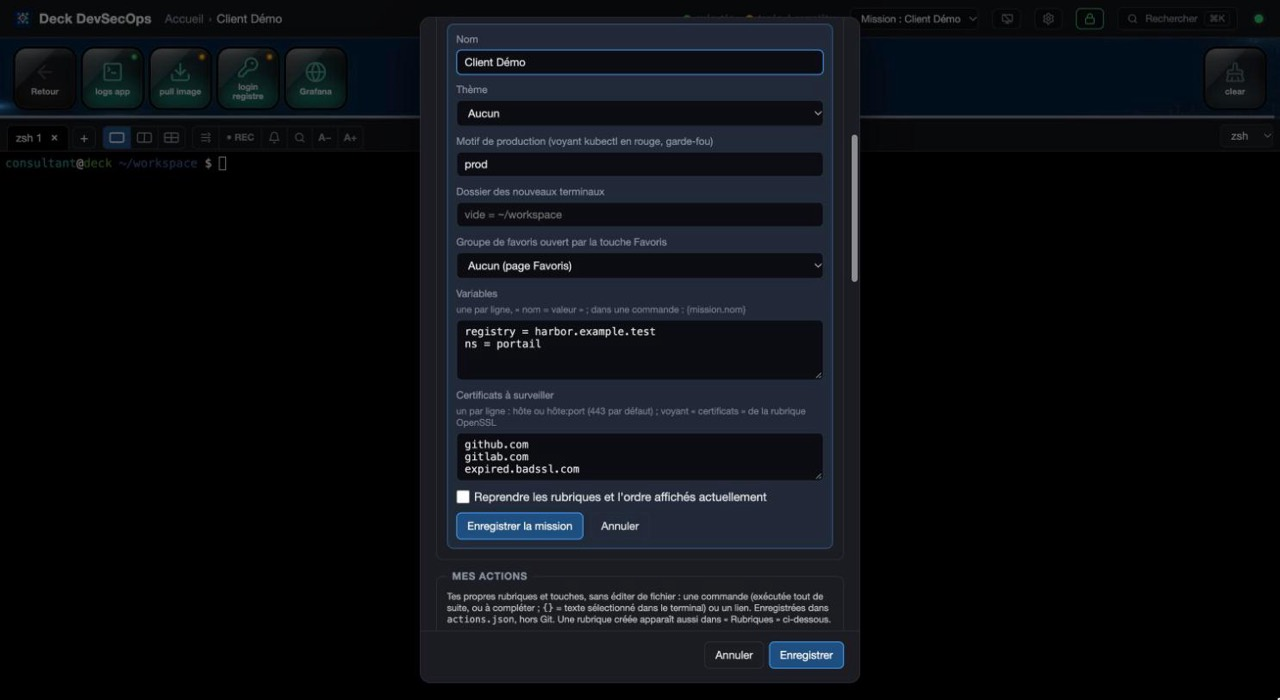
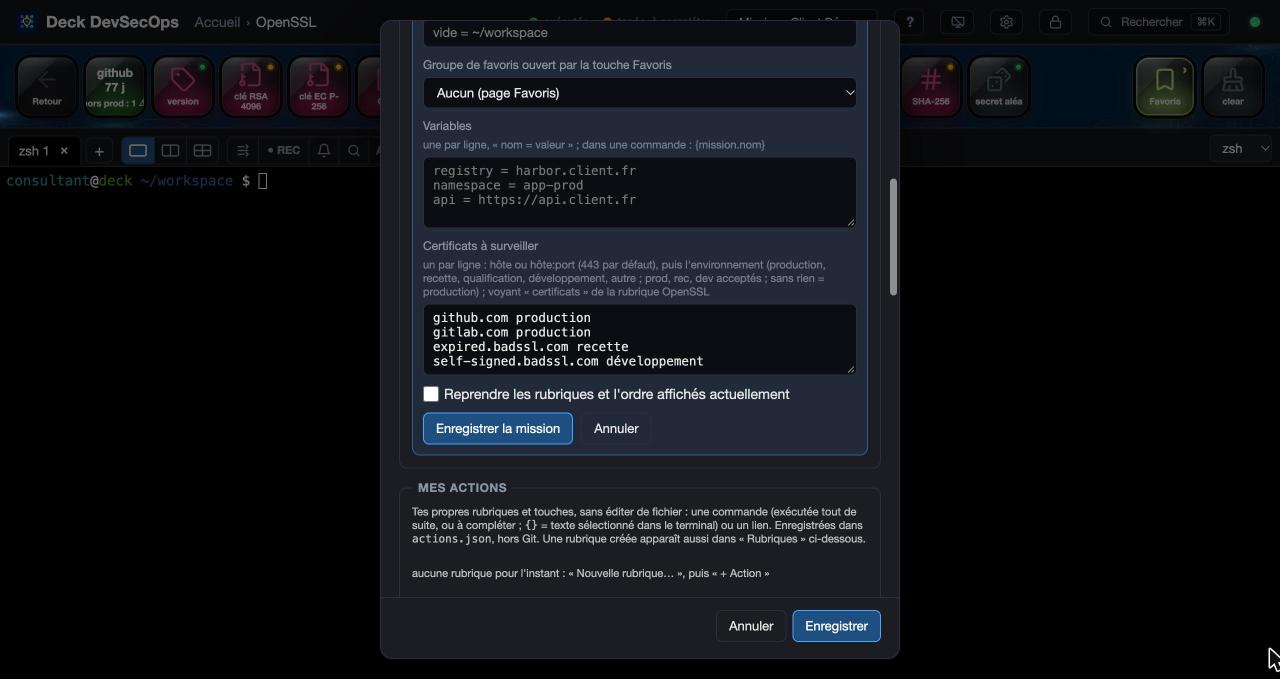
Certificats par environnement : production et hors production séparées
- Environnement par certificat (production, recette, qualification, développement, autre ;
  prod, rec, qualif, dev acceptés) ; ancien format ou sans environnement = production
- Seuils : production orange < 30 j, rouge < 7 j ; hors production orange < 14 j, rouge < 3 j
- Alertes : production aux deux seuils, hors production au rouge seulement
- Voyant CERTS PROD (certificat de production le plus urgent) ; problèmes hors production
  signalés en bas de la touche ; panneau en deux parties (Production / Hors production)
- Normalisation des environnements partagée avec les patchs des VMs
- Tests : 78 ; docs/08 et captures ; README

diff --git a/public/app.js b/public/app.js
@@ -1762,22 +1762,30 @@ function openCertsPanel(anchor) {
 function renderCertsPanel(checking = false) {
     if ($("#picker").hidden || pickerAnchor?.dataset.status !== "certs") return;
     const s = state.status.certs ?? { items: [] };
-    const items = (s.items ?? []).map((c) => {
-        const dot = c.error ? "⚪" : c.intercepted ? "⚠" : c.days < 7 ? "🔴" : c.days < 30 ? "🟠" : "🟢";
+    const row = (c) => {
+        // Niveau calculé par le serveur selon l'environnement (production 30 / 7 j, hors production 14 / 3 j)
+        const level = c.level ?? (c.days < 7 ? "rouge" : c.days < 30 ? "orange" : "ok");
+        const dot = c.error ? "⚪" : c.intercepted ? "⚠" : level === "rouge" ? "🔴" : level === "orange" ? "🟠" : "🟢";
+        const env = c.env && c.env !== "production" ? `[${c.env}] ` : "";
         const via = c.via ? ` · via proxy ${c.via}` : "";
         const when = c.error ? `injoignable, ${c.error}`
             : c.intercepted ? `certificat du proxy (${c.issuer}) : la date du site n'est pas visible d'ici${via}`
             : `${c.days < 0 ? `expiré depuis ${-c.days} j` : `${c.days} j`} · ${new Date(c.until).toLocaleDateString("fr-FR")} · émis par ${c.issuer || "?"}${c.trusted ? "" : " · chaîne non reconnue"}${via}`;
-        return { label: `${dot} ${c.target} : ${when}`, title: c.reason ? `${c.target} : ${c.reason}` : c.target, onClick: () => {}, prod: !c.error && !c.intercepted && c.days < 7 };
-    });
-    const section = pickerSection("Certificats de la mission", items, "aucun certificat : Réglages › Missions › Modifier › Certificats à surveiller");
+        return { label: `${dot} ${env}${c.target} : ${when}`, title: c.reason ? `${c.target} : ${c.reason}` : c.target, onClick: () => {}, prod: !c.error && !c.intercepted && level === "rouge" };
+    };
+    // Production d'abord (seuils 30 / 7 j), puis les autres environnements (14 / 3 j)
+    const all = s.items ?? [];
+    const prod = all.filter((c) => (c.env ?? "production") === "production").map(row);
+    const others = all.filter((c) => (c.env ?? "production") !== "production").map(row);
+    const sections = [pickerSection(`Production · alerte à 30 et 7 jours`, prod, all.length ? "aucun certificat de production" : "aucun certificat : Réglages › Missions › Modifier › Certificats à surveiller")];
+    if (others.length) sections.push(pickerSection("Hors production · alerte à 14 et 3 jours", others, ""));
     const foot = Object.assign(document.createElement("p"), { className: "picker-note",
         textContent: checking ? "vérification en cours…" : `vérifié à ${new Date(s.checked ?? Date.now()).toLocaleTimeString("fr-FR", { hour: "2-digit", minute: "2-digit" })} · ensuite toutes les 30 min` });
     const again = Object.assign(document.createElement("button"), { type: "button", className: "picker-action", textContent: "Vérifier maintenant" });
     again.addEventListener("click", () => { renderCertsPanel(true); send({ t: "press", id: "certs" }); });
     foot.append(" ", again);
     $("#picker").classList.add("certs-panel");
-    $("#picker").replaceChildren(section, foot);
+    $("#picker").replaceChildren(...sections, foot);
     placePicker();
 }
 
@@ -3047,7 +3055,7 @@ function openMissionForm(m = null) {
     fav.replaceChildren(new Option("Aucun (page Favoris)", ""), ...(state.favGroups ?? []).map((g) => new Option(g.path, g.id)));
     fav.value = m?.favGroup ?? "";
     $("#mission-vars").value = Object.entries(m?.vars ?? {}).map(([k, v]) => `${k} = ${v}`).join("\n");
-    $("#mission-certs").value = (m?.certs ?? []).join("\n");
+    $("#mission-certs").value = (m?.certs ?? []).map((c) => (typeof c === "string" ? c : `${c.target} ${c.env}`)).join("\n");
     $("#mission-capture").checked = !m;
     showMissionError("");
     $("#mission-form").hidden = false;
@@ -3081,7 +3089,11 @@ function saveMission() {
         favGroup: $("#mission-fav").value,
         vars,
         // « https://api.client.fr/chemin » accepté : seul l'hôte (et le port) est gardé
-        certs: $("#mission-certs").value.split(/[\n,]/).map((l) => l.trim().replace(/^[a-z]+:\/\//i, "").replace(/\/.*$/, "")).filter(Boolean),
+        // « hôte[:port] environnement » par ligne ; une URL complète est acceptée (seul l'hôte est gardé)
+        certs: $("#mission-certs").value.split(/\n/).map((l) => l.trim()).filter(Boolean).map((l) => {
+            const [first, ...rest] = l.split(/[\s;,]+/);
+            return { target: first.replace(/^[a-z]+:\/\//i, "").replace(/\/.*$/, ""), env: rest.join(" ") };
+        }),
         captureWorlds: $("#mission-capture").checked
     } });
     // Pas de fermeture ici : seulement quand le serveur confirme (une erreur garde la saisie)
@@ -3102,7 +3114,7 @@ function showMissionError(text) {
     el.textContent = text;
     el.hidden = !text;
     if (!text) return;
-    const field = /certificat|port invalide/i.test(text) ? "#mission-certs" : /variable/i.test(text) ? "#mission-vars" : /dossier/i.test(text) ? "#mission-workspace" : /motif/i.test(text) ? "#mission-prod" : /nom/i.test(text) ? "#mission-name" : null;
+    const field = /certificat|port invalide|environnement inconnu/i.test(text) ? "#mission-certs" : /variable/i.test(text) ? "#mission-vars" : /dossier/i.test(text) ? "#mission-workspace" : /motif/i.test(text) ? "#mission-prod" : /nom/i.test(text) ? "#mission-name" : null;
     if (field) { $(field).focus(); $(field).select(); }
 }
 

diff --git a/public/index.html b/public/index.html
@@ -268,8 +268,8 @@
                     <label>Variables <span class="hint">une par ligne, « nom = valeur » ; dans une commande : {mission.nom}</span>
                         <textarea id="mission-vars" rows="4" spellcheck="false" placeholder="registry = harbor.client.fr&#10;namespace = app-prod&#10;api = https://api.client.fr"></textarea>
                     </label>
-                    <label>Certificats à surveiller <span class="hint">un par ligne : hôte ou hôte:port (443 par défaut) ; voyant « certificats » de la rubrique OpenSSL</span>
-                        <textarea id="mission-certs" rows="3" spellcheck="false" placeholder="api.client.fr&#10;portail.client.fr&#10;ldap.client.fr:636"></textarea>
+                    <label>Certificats à surveiller <span class="hint">un par ligne : hôte ou hôte:port (443 par défaut), puis l'environnement (production, recette, qualification, développement, autre ; prod, rec, dev acceptés ; sans rien = production) ; voyant « certificats » de la rubrique OpenSSL</span>
+                        <textarea id="mission-certs" rows="4" spellcheck="false" placeholder="api.client.fr production&#10;portail.client.fr prod&#10;recette-api.client.fr recette&#10;ldap.client.fr:636"></textarea>
                     </label>
                     <label class="settings-check"><input id="mission-capture" type="checkbox" checked> Reprendre les rubriques et l'ordre affichés actuellement</label>
                     <span id="mission-error" class="mission-error" role="alert" hidden></span>

diff --git a/README.md b/README.md
@@ -167,7 +167,7 @@ Quand le voyant kubectl est en **production** (contexte ou namespace qui corresp
 
 **Variables de mission** : dans le formulaire, une par ligne (`registry = harbor.client.fr`, `ns = app-prod`…). Une commande (Mes actions ou `config.jsonc`) les utilise avec `{mission.registry}` : la valeur vient de la mission active, la même touche sert donc chez chaque client. Sans mission active, ou si la variable manque, la touche ne tape rien et le dit.
 
-**Certificats à surveiller** : une adresse par ligne (`api.client.fr`, `ldap.client.fr:636`). Le voyant **certificats** de la rubrique OpenSSL (ou `cert-status` dans `shortcuts`) montre le plus proche de l'expiration : vert, **orange à moins de 30 jours**, **rouge à moins de 7** ou expiré ; **un clic** ouvre la liste de tous les certificats suivis (pastille, jours restants, date, chaîne non reconnue, serveur injoignable avec la raison en clair : réseau inaccessible, nom inconnu, port fermé…) et relance la vérification ; sinon vérification toutes les 30 min. La date est lue par une simple poignée de main TLS (Node, sans openssl, 10 s au plus). **Réseau d'entreprise avec proxy** (ex. Zscaler) : si `HTTPS_PROXY` (ou `https_proxy`) est défini, la vérification passe par un tunnel `CONNECT` du proxy (identifiants de l'URL acceptés), `NO_PROXY` est respecté ; sous Windows, définir la variable pour l'utilisateur (`setx HTTPS_PROXY http://proxy:8080`) puis redémarrer le deck. Le panneau indique l'**émetteur** et le passage par le proxy ; un certificat présenté par un proxy qui déchiffre le TLS (Zscaler, Netskope…) est signalé ⚠ et ne compte pas pour la couleur, sa date n'étant pas celle du site. Erreurs distinguées : DNS, proxy injoignable, proxy qui refuse (403, 407, 502…), délai dépassé. **Alerte** quand un certificat passe à l'orange (moins de 30 jours) puis au rouge (moins de 7 jours ou expiré) : message dans le deck et notification du système si elles sont autorisées (cloche de la barre des terminaux) ; une seule fois par seuil, retenue dans `.deck-cert-alerts.json` (hors Git), de nouveau après un renouvellement.
+**Certificats à surveiller** : une adresse par ligne (`api.client.fr`, `ldap.client.fr:636`), suivie de son environnement (`production`, `recette`, `qualification`, `développement`, `autre` ; `prod`, `rec`, `dev` acceptés ; sans rien = production). Production : orange < 30 j, rouge < 7 j, alertes aux deux seuils ; hors production : orange < 14 j, rouge < 3 j, alerte au rouge seulement. Le voyant suit la production (**CERTS PROD**) et signale à part les problèmes hors production (« 1⚠ hors prod »), le panneau sépare Production et Hors production. Le voyant **certificats** de la rubrique OpenSSL (ou `cert-status` dans `shortcuts`) montre le plus proche de l'expiration : vert, **orange à moins de 30 jours**, **rouge à moins de 7** ou expiré ; **un clic** ouvre la liste de tous les certificats suivis (pastille, jours restants, date, chaîne non reconnue, serveur injoignable avec la raison en clair : réseau inaccessible, nom inconnu, port fermé…) et relance la vérification ; sinon vérification toutes les 30 min. La date est lue par une simple poignée de main TLS (Node, sans openssl, 10 s au plus). **Réseau d'entreprise avec proxy** (ex. Zscaler) : si `HTTPS_PROXY` (ou `https_proxy`) est défini, la vérification passe par un tunnel `CONNECT` du proxy (identifiants de l'URL acceptés), `NO_PROXY` est respecté ; sous Windows, définir la variable pour l'utilisateur (`setx HTTPS_PROXY http://proxy:8080`) puis redémarrer le deck. Le panneau indique l'**émetteur** et le passage par le proxy ; un certificat présenté par un proxy qui déchiffre le TLS (Zscaler, Netskope…) est signalé ⚠ et ne compte pas pour la couleur, sa date n'étant pas celle du site. Erreurs distinguées : DNS, proxy injoignable, proxy qui refuse (403, 407, 502…), délai dépassé. **Alerte** quand un certificat passe à l'orange (moins de 30 jours) puis au rouge (moins de 7 jours ou expiré) : message dans le deck et notification du système si elles sont autorisées (cloche de la barre des terminaux) ; une seule fois par seuil, retenue dans `.deck-cert-alerts.json` (hors Git), de nouveau après un renouvellement.
 
 ### Rubriques activées
 

diff --git a/docs/08-missions-et-certificats.md b/docs/08-missions-et-certificats.md
@@ -22,21 +22,37 @@ Les missions sont dans `settings.json`, hors Git.
 
 ![Certificats](img/certificats.jpg)
 
-Dans la mission, une adresse par ligne (`api.client.fr`, `ldap.client.fr:636` ; une URL complète est acceptée). Le
-voyant **certificats**, première touche de la rubrique **OpenSSL** (ou `cert-status` sur l'accueil via `config.jsonc`),
-affiche le certificat qui expire le plus tôt :
+Dans la mission, une ligne par certificat : l'adresse (`api.client.fr`, `ldap.client.fr:636` ; une URL complète est
+acceptée), puis son **environnement** :
 
-| Couleur | Signification |
-|---|---|
-| 🟢 vert | plus de 30 jours |
-| 🟠 orange | moins de 30 jours |
-| 🔴 rouge | moins de 7 jours, ou expiré |
-| ⚪ gris | aucun certificat suivi, ou serveurs injoignables |
+```text
+api.client.fr production
+portail.client.fr prod
+recette-api.client.fr recette
+dev-api.client.fr dev
+```
 
-- **Clic** : la liste de tous les certificats (jours restants, date, **émetteur**, chaîne non reconnue, serveur
-  injoignable avec la raison en clair), et **Vérifier maintenant**. Sinon, vérification toutes les 30 min.
-- **Alerte** au passage à l'orange puis au rouge : message dans le deck et notification du système (si autorisée avec
-  la cloche des terminaux), une seule fois par seuil.
+Environnements : `production`, `recette`, `qualification`, `développement`, `autre` (abréviations `prod`, `rec`,
+`qualif`, `dev` acceptées). **Sans environnement, le certificat est considéré comme de production** : rien n'échappe à
+la surveillance la plus stricte.
+
+Les seuils dépendent de l'environnement :
+
+| Environnement | 🟠 orange | 🔴 rouge | Alertes |
+|---|---|---|---|
+| Production | moins de 30 jours | moins de 7 jours, ou expiré | orange puis rouge |
+| Hors production | moins de 14 jours | moins de 3 jours, ou expiré | rouge seulement |
+
+Le voyant **certificats**, première touche de la rubrique **OpenSSL** (ou `cert-status` sur l'accueil via
+`config.jsonc`), affiche **le certificat de production le plus urgent** (titre **CERTS PROD**). Un problème hors
+production ne change pas sa couleur : il est signalé en bas de la touche (« 1⚠ hors prod »). Gris : aucun certificat
+suivi, ou serveurs injoignables.
+
+- **Clic** : la liste de tous les certificats en deux parties, **Production** puis **Hors production** (avec
+  l'environnement de chacun), avec les jours restants, la date, l'**émetteur**, une chaîne non reconnue ou un serveur
+  injoignable avec la raison en clair, et **Vérifier maintenant**. Sinon, vérification toutes les 30 min.
+- **Alerte** : message dans le deck et notification du système (si autorisée avec la cloche des terminaux), une seule
+  fois par seuil ; hors production, seulement au rouge.
 - La date est lue par une simple poignée de main TLS (Node, sans openssl, 10 s au plus). Rien d'autre n'est envoyé.
 
 ## Poste d'entreprise et proxy
